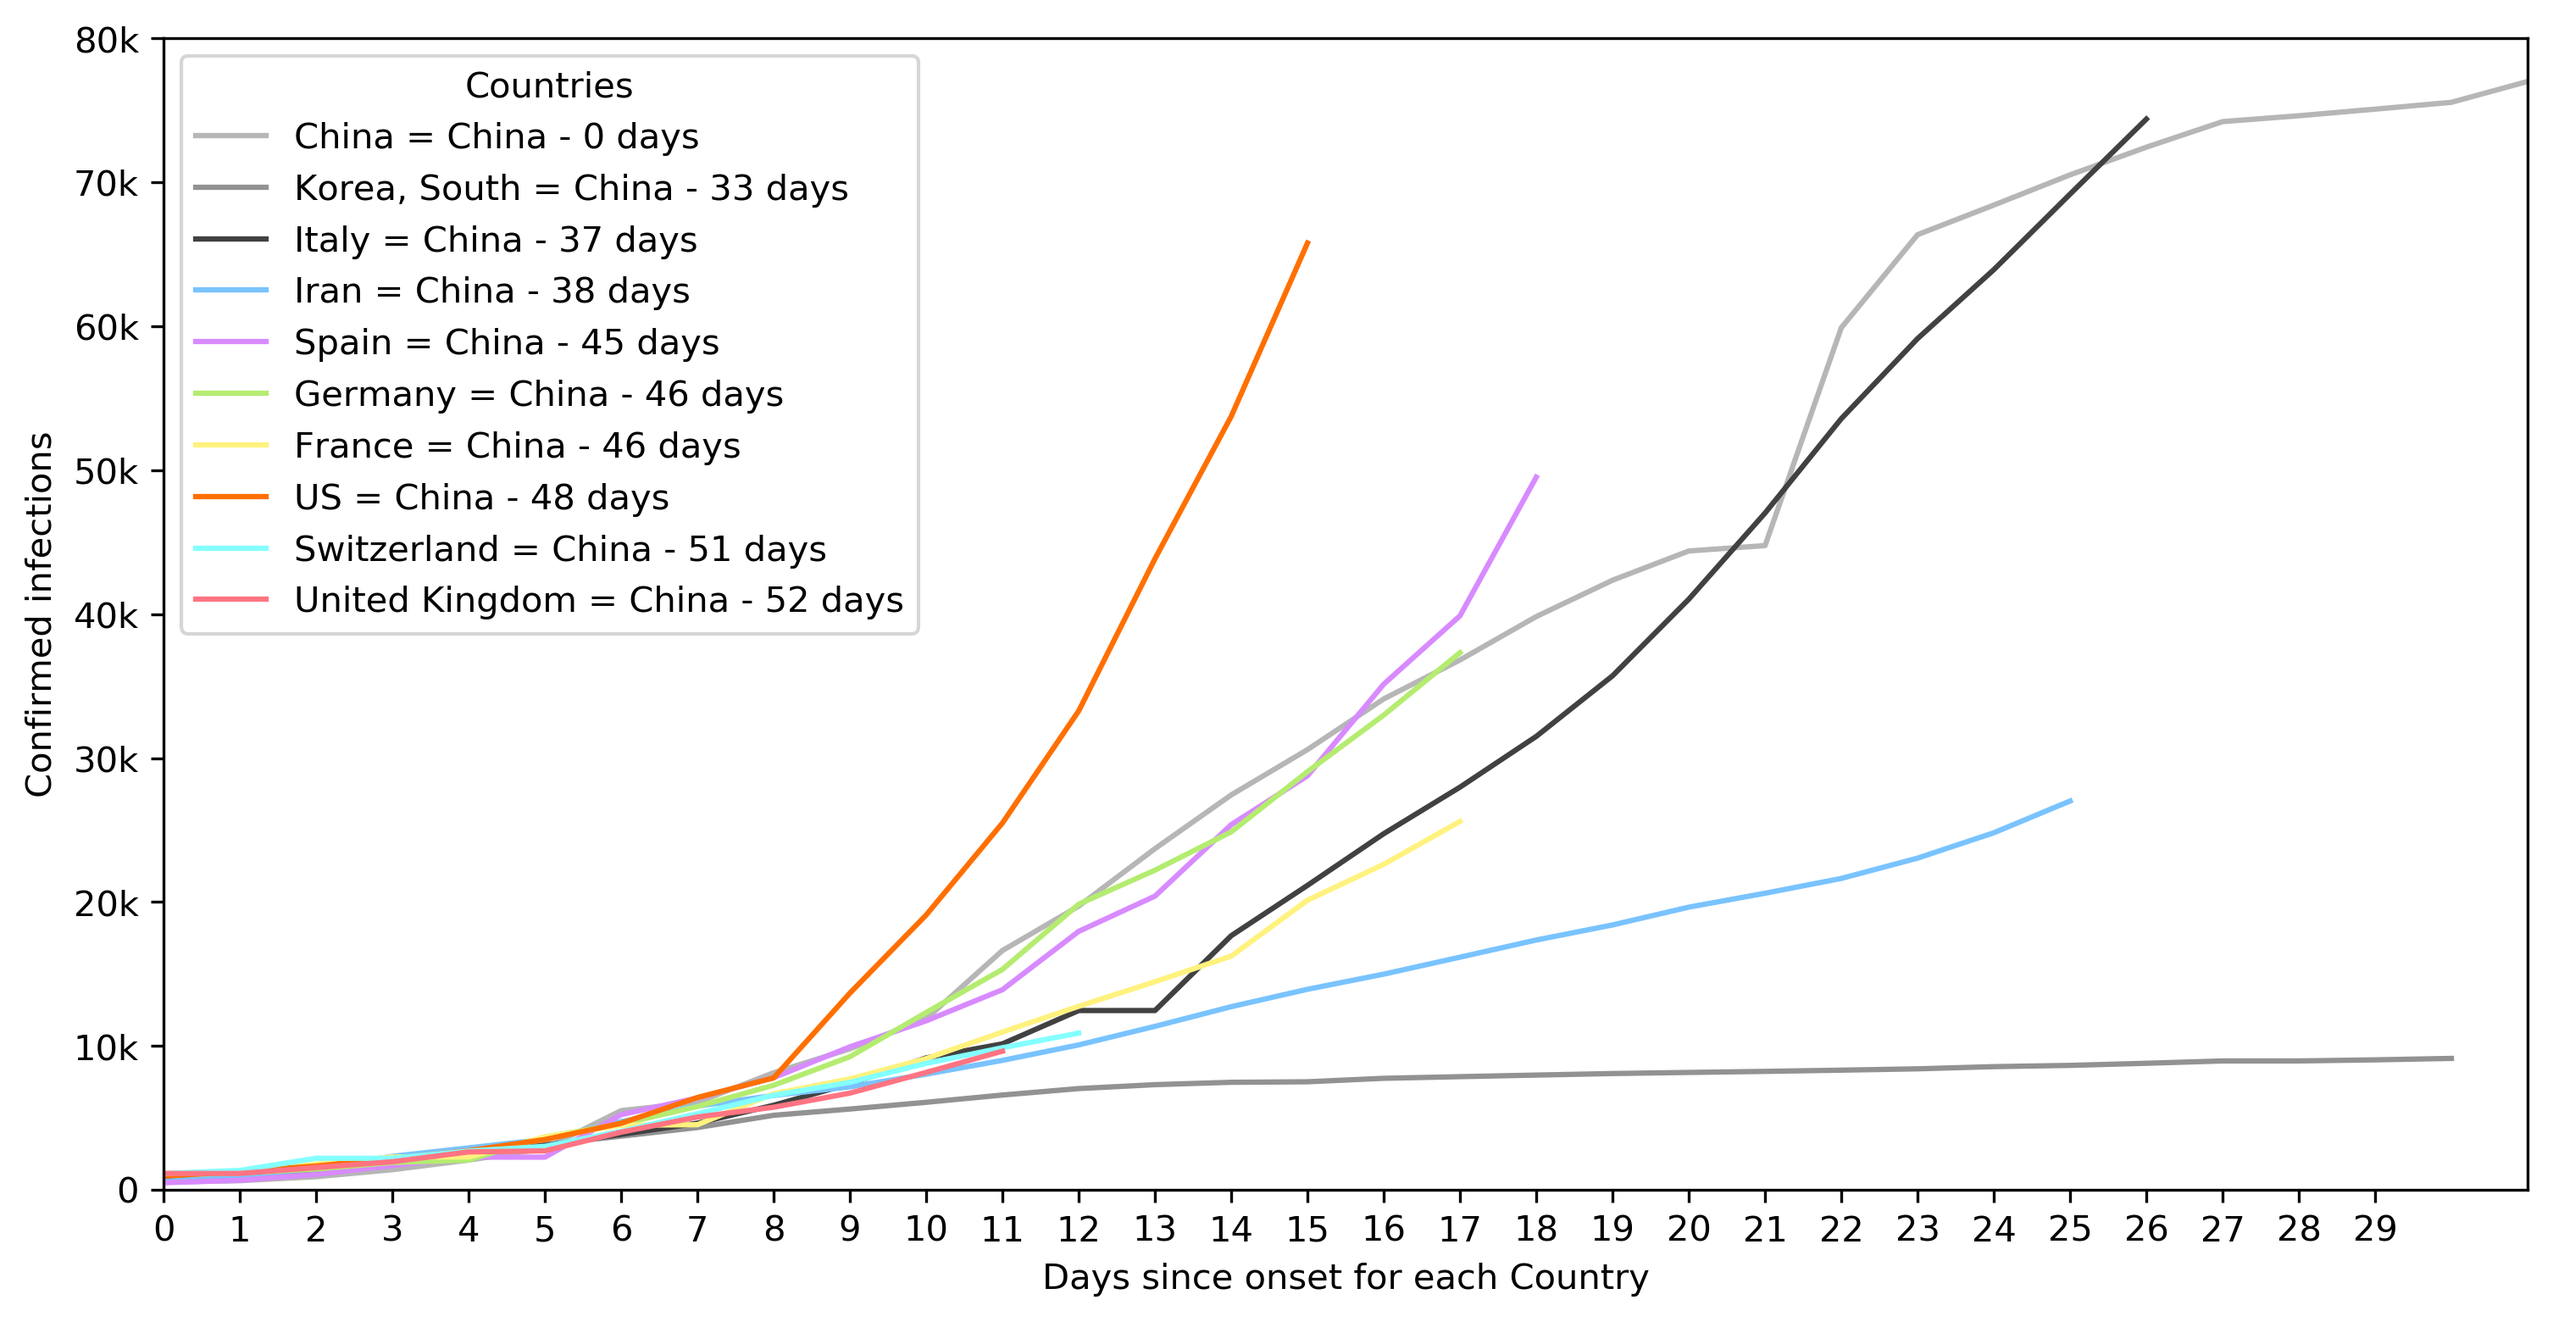
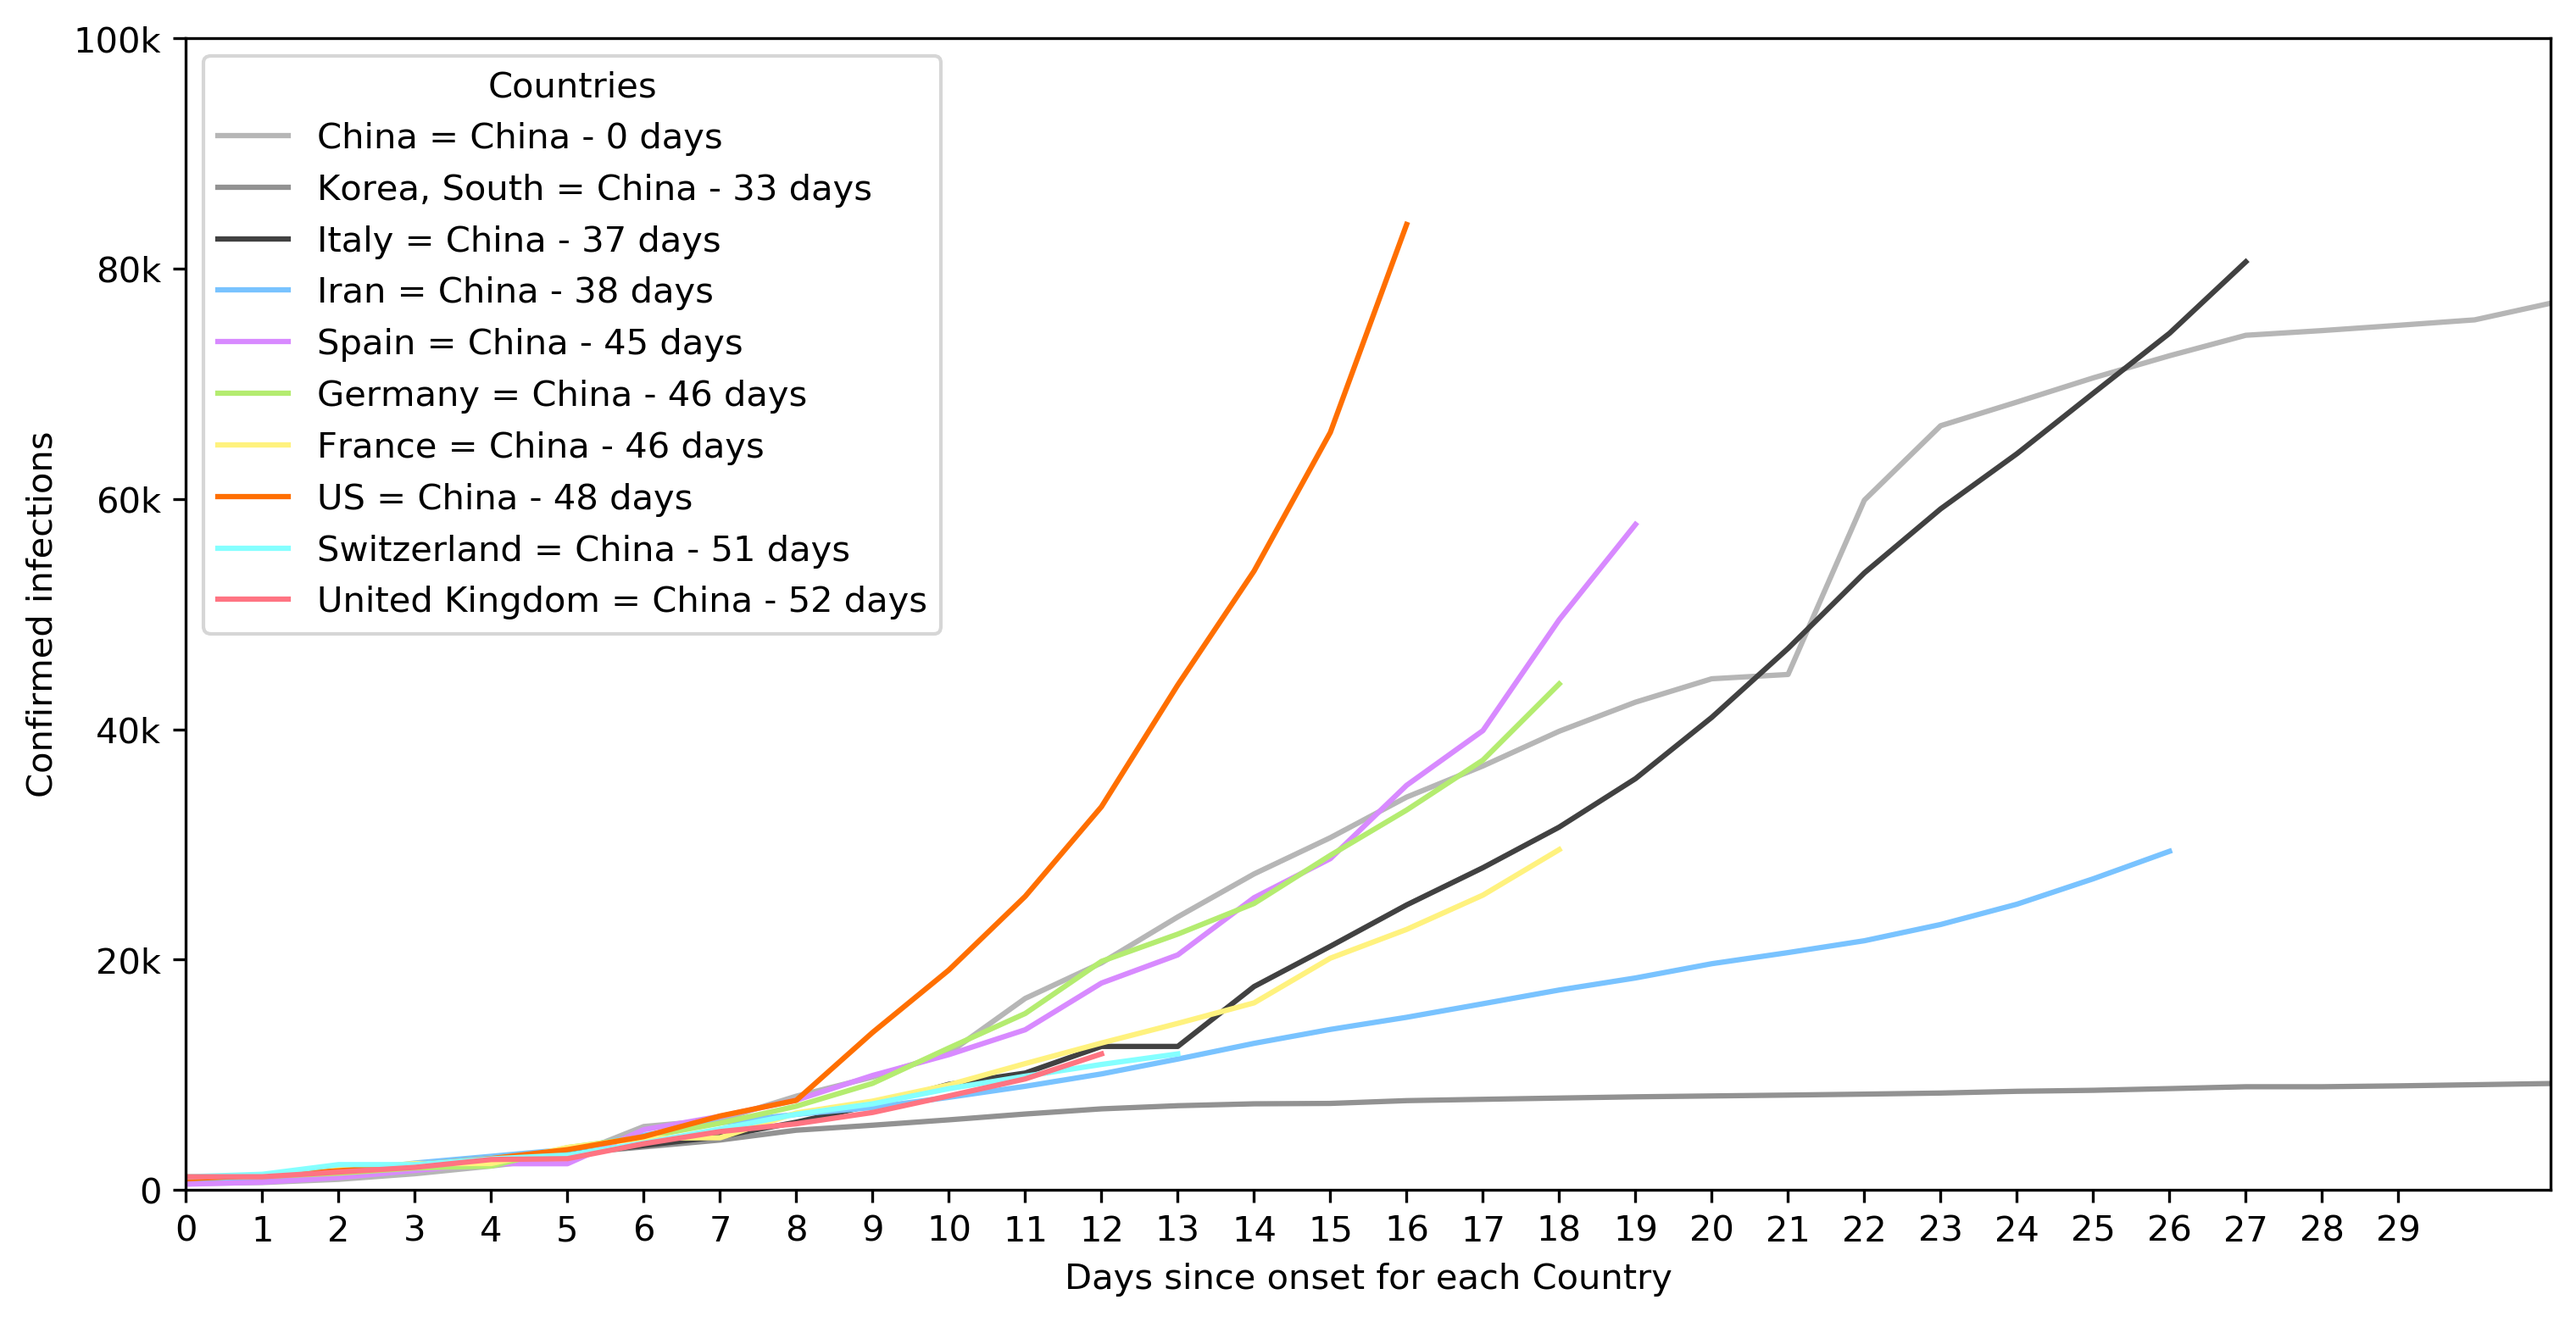
update

diff --git a/plot_trends.py b/plot_trends.py
@@ -95,7 +95,7 @@ plt.xticks([np.datetime64('2020-01-22') + np.timedelta64(d, 'D') for d in range(
 ax.set_xticklabels(range(0, 30))
 plt.xlabel('Days since onset for each Country')
 
-plt.ylim((0, 80000))
+plt.ylim((0, 100000))
 ax.set_yticklabels(['0' if x == 0 else '{:.0f}k'.format(int(x) / 1000) for x in ax.get_yticks().tolist()])
 plt.ylabel('Confirmed infections')
 
